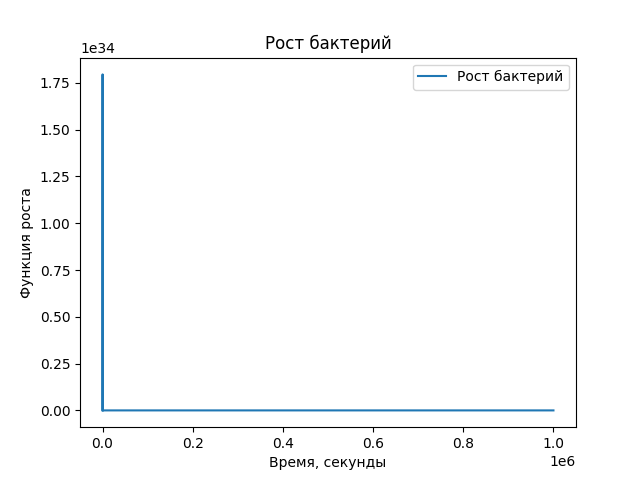
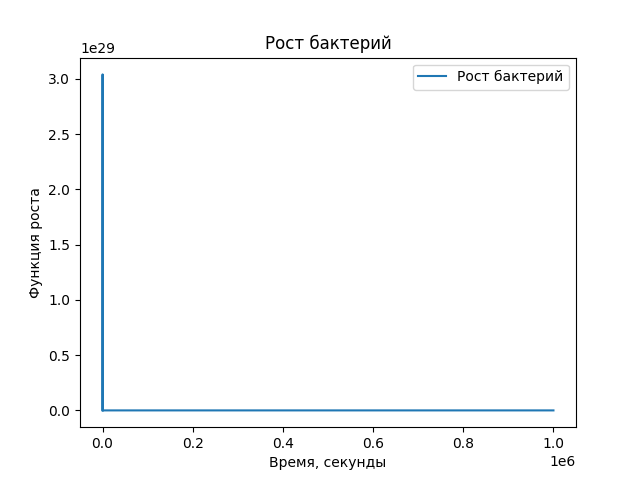
18

diff --git a/9 лекция/о.1.py b/9 лекция/о.1.py
@@ -4,24 +4,23 @@ import matplotlib.pyplot as plt
 
 # Пределы изменения переменной величины
 # В данной задаче переменной величиной является время
-t = np.arange(0, 10**6, 100)
+t = np.arange(0, 48, 48)
 
 # Запись диф. уравнения в виде функции
-def bact(n, t):
-    dndt = k * n
-    k = n/dndt
-    return dndt
+def radio_function(m, t):
+    dmdt = h * m
+    return dmdt
 
 # Определение начальных условий и параметров
-n_0 = 10
+m_0 = 1000
+h = 0.08  # Постоянная распада для Висмута 210
 
-n_t = odeint(bact, n_0, t)
+# Решение дифференциального уравнения функцией odeint
+m_t = odeint(radio_function, m_0, t)
 
-plt.plot(t, n_t[:,0], label='Рост бактерий')
-plt.xlabel('Время, секунды')
-plt.ylabel('Функция роста')
-plt.title('Рост бактерий')
-plt.legend()
-
-
-plt.savefig('o.1.png')
+# Построение решения в виде графика функции
+plt.plot(t, m_t[:,0], label='Распад Висмута 210')
+plt.xlabel('Период распада, секунды')
+plt.ylabel('Функция распада')
+plt.title('Радиоактивный распад')
+plt.savefig('o00000.1.png')

diff --git a/9 лекция/vrem.py b/9 лекция/vrem.py
@@ -8,21 +8,23 @@ t = np.arange(0, 10**6, 100)
 
 # Запись диф. уравнения в виде функции
 def radio_function(m, t):
-    dmdt = - k * m
+    dmdt =  k * m *t
+
+    # t = m/k*m
     return dmdt
 
 # Определение начальных условий и параметров
 m_0 = 10
-k = 1.61 * 10**(-6) # Постоянная распада для Висмута 210
+k = 10 
 
 # Решение дифференциального уравнения функцией odeint
 m_t = odeint(radio_function, m_0, t)
 
 # Построение решения в виде графика функции
-plt.plot(t, m_t[:,0], label='Распад Висмута 210')
-plt.xlabel('Период распада, секунды')
-plt.ylabel('Функция распада')
-plt.title('Радиоактивный распад')
+plt.plot(t, m_t[:,0], label='Рост бактерий')
+plt.xlabel('Время, секунды')
+plt.ylabel('Функция роста')
+plt.title('Рост бактерий')
 plt.legend()
 
-plt.savefig('vr.png')
+plt.savefig('o.1.png')
